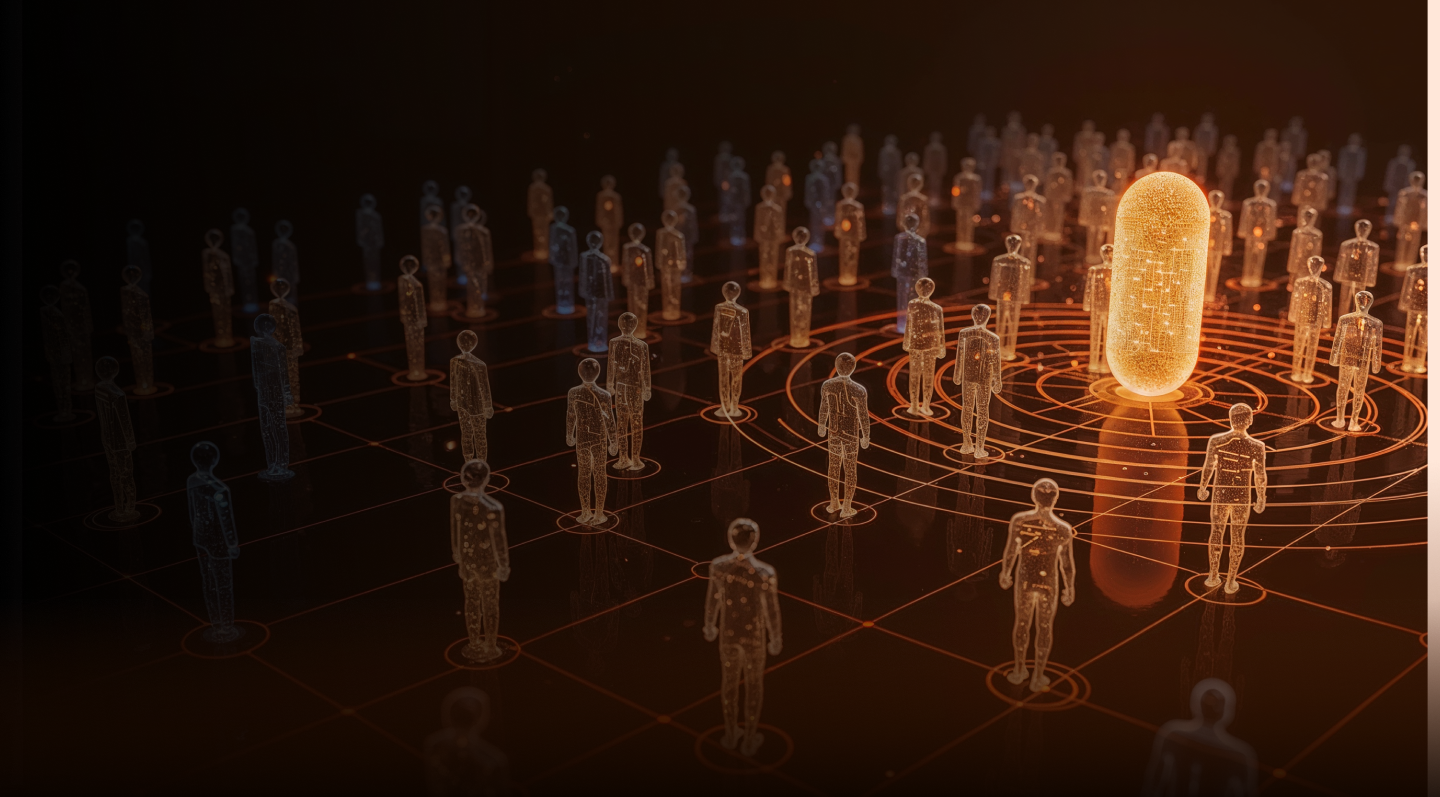
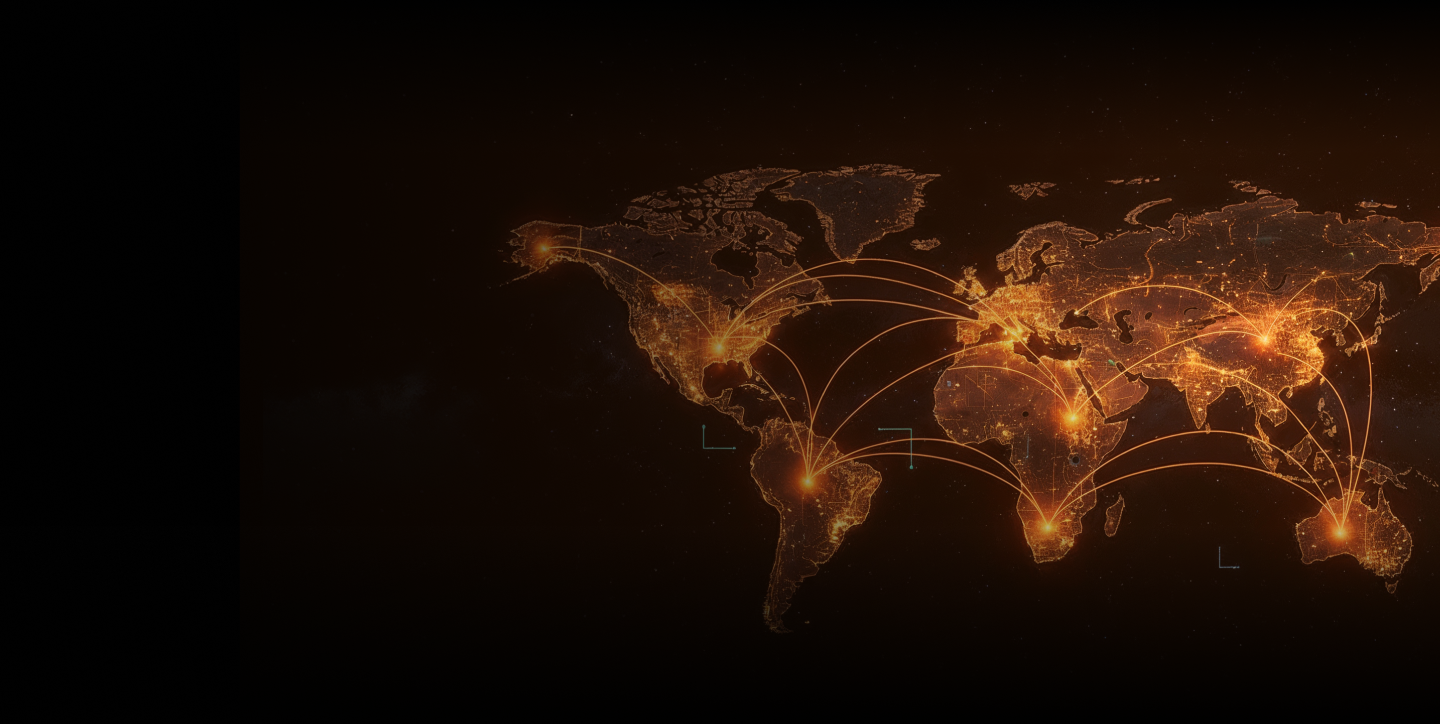
feat(network): start academy page

diff --git a/apps/network/src/routes/funds.tsx b/apps/network/src/routes/funds.tsx
@@ -34,7 +34,6 @@ function RouteComponent() {
         }
         subtitle={t('funds.subtitle')}
         imageUrl={isMobile ? headerSmallImage : headerImage}
-        className="mx-10"
         titleClassName={'max-w-[700px]'}
         subtitleClassName={'max-w-[85%] lg:max-w-[450px]'}
       />
@@ -45,41 +44,43 @@ function RouteComponent() {
         alt="Scenic mountain lake"
         titleClassName={'lg:max-w-[53%]'}
         subtitleClassName={'lg:max-w-[52%] max-xl:!text-lg text-gray-300'}
-        imageClassName="lg:w-[50%]"
+        imageClassName=""
         subtitleUnderImage={true}
         className="mt-12"
         orientation="left"
         BottomElement={
-          <div className="flex flex-col gap-1 xl:gap-2">
-            <div className="flex flex-row gap-2 items-center">
-              <img
-                className="rounded-[10px] p-2 bg-darkOrange-11 max-xl:size-9"
-                src={personIcon}
-                alt="Person icon"
-              />
-              <span className="title-base xl:title-medium">
-                {t('funds.cyphertankPitch1')}
-              </span>
-            </div>
-            <div className="flex flex-row gap-2 items-center">
-              <img
-                className="rounded-[10px] p-2 bg-darkOrange-11 max-xl:size-9"
-                src={dollarIcon}
-                alt="Dollar icon"
-              />
-              <span className="title-base xl:title-medium">
-                {t('funds.cyphertankPitch2')}
-              </span>
-            </div>
-            <div className="flex flex-row gap-2 items-center">
-              <img
-                className="rounded-[10px] p-2 bg-darkOrange-11 max-xl:size-9"
-                src={worldIcon}
-                alt="World icon"
-              />
-              <span className="title-base xl:title-medium">
-                {t('funds.cyphertankPitch3')}
-              </span>
+          <>
+            <div className="flex flex-col gap-1 xl:gap-2">
+              <div className="flex flex-row gap-2 items-center">
+                <img
+                  className="rounded-[10px] p-2 bg-darkOrange-11 max-xl:size-9"
+                  src={personIcon}
+                  alt="Person icon"
+                />
+                <span className="title-base xl:title-medium">
+                  {t('funds.cyphertankPitch1')}
+                </span>
+              </div>
+              <div className="flex flex-row gap-2 items-center">
+                <img
+                  className="rounded-[10px] p-2 bg-darkOrange-11 max-xl:size-9"
+                  src={dollarIcon}
+                  alt="Dollar icon"
+                />
+                <span className="title-base xl:title-medium">
+                  {t('funds.cyphertankPitch2')}
+                </span>
+              </div>
+              <div className="flex flex-row gap-2 items-center">
+                <img
+                  className="rounded-[10px] p-2 bg-darkOrange-11 max-xl:size-9"
+                  src={worldIcon}
+                  alt="World icon"
+                />
+                <span className="title-base xl:title-medium">
+                  {t('funds.cyphertankPitch3')}
+                </span>
+              </div>
             </div>
             <div className="mt-4 flex flex-row xl:flex-col max-lg:self-center gap-4">
               <NetworkButton variant={'secondary'}>Apply now</NetworkButton>
@@ -87,7 +88,7 @@ function RouteComponent() {
                 See next edition
               </NetworkButton>
             </div>
-          </div>
+          </>
         }
       />
       <MediaCard
@@ -101,7 +102,7 @@ function RouteComponent() {
         className="mt-12"
         orientation="right"
         BottomElement={
-          <div className="flex flex-col max-lg:items-center ">
+          <div className="flex flex-col max-lg:items-center">
             <NetworkButton variant={'secondary'}>
               Fundrise capital
             </NetworkButton>

diff --git a/apps/network/src/routes/academy.tsx b/apps/network/src/routes/academy.tsx
@@ -3,7 +3,10 @@ import { t } from 'i18next';
 import { Trans } from 'react-i18next';
 import headerImage from '#src/assets/academy/header.png';
 import headerSmallImage from '#src/assets/academy/header.png';
+import media1Image from '#src/assets/academy/media-1.png';
+import BlockTitle from '#src/components/block-title.tsx';
 import { Hero } from '#src/components/hero.tsx';
+import { NetworkButton } from '#src/components/network-button.tsx';
 import PageBlock from '#src/components/page-block.tsx';
 import { useSmaller } from '#src/hooks/use-smaller.ts';
 
@@ -24,10 +27,29 @@ function RouteComponent() {
         }
         subtitle={t('academy.subtitle')}
         imageUrl={isMobile ? headerSmallImage : headerImage}
-        className="mx-10"
-        titleClassName="max-w-[65%]"
+        titleClassName="max-w-[62%]"
         subtitleClassName={'max-w-[85%] lg:max-w-[40%]'}
       />
+      <BlockTitle text="Todo bla bla" />
+
+      <PageBlock>
+        <h2 className="display-medium text-center">
+          {t('academy.safestPlace')}
+        </h2>
+        <div className="mt-6 flex flex-row justify-between max-w-[300px] self-center mx-auto text-gray-200 z-10 relative">
+          <span>{t('academy.safest1')}</span>
+          <span>{t('academy.safest2')}</span>
+          <span>{t('academy.safest3')}</span>
+        </div>
+        <img
+          className="lg:-mt-12"
+          src={media1Image}
+          alt="Laptop showing the academy website"
+        />
+        <NetworkButton className="justify-self-center z-10 relative md:-mt-6 lg:-mt-12">
+          Start learning
+        </NetworkButton>
+      </PageBlock>
       <div className="shadow-top-bottom-box py-24 mt-24">
         <PageBlock>
           <p>1</p>

diff --git a/apps/network/src/components/media-card.tsx b/apps/network/src/components/media-card.tsx
@@ -38,10 +38,9 @@ export default function MediaCard({
       <fieldset
         aria-labelledby="media-card-title"
         className={[
-          'relative w-full pb-5 rounded-2xl shadow-lg transition-transform',
+          'relative w-full rounded-2xl shadow-lg transition-transform',
           'hover:-translate-y-0.5 hover:shadow-xl',
           'flex flex-col lg:flex-col',
-          'hover:-translate-y-0.5 hover:shadow-xl',
           'max-lg:bg-network-cards',
         ].join(' ')}
       >
@@ -61,6 +60,7 @@ export default function MediaCard({
           >
             {title}
           </h3>
+
           {subtitleUnderImage && isMobile ? null : (
             <BottomStuff
               bottomElement={BottomElement}
@@ -75,7 +75,7 @@ export default function MediaCard({
           src={imageUrl}
           alt={alt}
           className={[
-            'object-cover self-center max-lg:-mt-8 w-full',
+            'object-cover self-center max-lg:-mt-8 w-full h-full',
             'rounded-2xl',
             isLeft ? 'lg:self-end' : 'lg:self-start',
             imageClassName,
@@ -106,6 +106,7 @@ function BottomStuff({
   subtext?: string;
   isLeft: boolean;
 }) {
+  const isMobile = useSmaller('lg');
   return (
     <>
       <p
@@ -118,8 +119,12 @@ function BottomStuff({
         {subtext}
       </p>
       {bottomElement ? (
-        <div className="xl:mb-8 max-lg:mt-8">{bottomElement}</div>
+        <>
+          {isMobile ? <div className="max-lg:h-4" /> : null}
+          {bottomElement}
+        </>
       ) : null}
+      {isMobile ? <div className="max-lg:h-5" /> : null}
     </>
   );
 }

diff --git a/apps/network/src/routes/about.tsx b/apps/network/src/routes/about.tsx
@@ -180,7 +180,6 @@ function RouteComponent() {
         }
         subtitle={t('about.subtitle')}
         imageUrl={isMobile ? headerSmallImage : headerImage}
-        className="lg:mx-10"
         subtitleClassName={'max-w-[400px]'}
       />
       <MediaCard
@@ -188,8 +187,8 @@ function RouteComponent() {
         subtext={t('about.media1subtitle')}
         imageUrl={media1Image}
         alt="Scenic mountain lake"
-        titleClassName={'lg:max-w-[65%]'}
-        subtitleClassName={'lg:max-w-[40%]'}
+        titleClassName={'lg:max-w-[700px]'}
+        subtitleClassName={'lg:max-w-[40%] max-xl:!text-lg'}
         imageClassName="lg:max-w-[50%]"
         subtitleUnderImage={true}
         className="mt-12"
@@ -198,10 +197,10 @@ function RouteComponent() {
         <h2 className="display-medium mb-8 max-lg:text-center">
           {t('about.ourValues.title')}
         </h2>
-        <div className="flex flex-row flex-wrap gap-4 lg:gap-10 justify-center-safe">
+        <div className="flex flex-row flex-wrap gap-2 lg:gap-10 justify-center-safe">
           {valuesCards.map((card) => (
             <div
-              className="flex flex-col gap-2 lg:gap-4 w-52 lg:w-[380px] border-[1px] border-orange-600 rounded-3xl p-8 text-left"
+              className="flex flex-col gap-2 lg:gap-4 w-44 md:w-52 lg:w-[380px] border-[1px] border-orange-600 rounded-3xl p-4 md:p-8 text-left"
               key={card.title}
             >
               <img className="w-12" src={card.imageUrl} alt="" />

diff --git a/apps/network/src/components/block-title.tsx b/apps/network/src/components/block-title.tsx
@@ -1,0 +1,28 @@
+import { cn } from '@blms/ui';
+import curveLeft from '#src/assets/curve/curve-left.svg';
+import curveMiddle from '#src/assets/curve/curve-middle.png';
+import curveRight from '#src/assets/curve/curve-right.svg';
+
+type BlockTitleProps = {
+  text: string;
+  className?: string;
+};
+
+export default function BlockTitle({ text, className }: BlockTitleProps) {
+  return (
+    <div className="flex flex-col w-full items-center ">
+      <div className={cn('flex w-full', className)}>
+        <img className="h-[400px]" src={curveLeft} alt="Left curve" />
+
+        <img
+          className="h-[400px] w-1 flex-grow"
+          src={curveMiddle}
+          alt="Middle curve"
+        />
+
+        <img className="h-[400px]" src={curveRight} alt="Right curve" />
+      </div>
+      <h2 className="-mt-20 mb-12 title-extra-large uppercase">{text}</h2>
+    </div>
+  );
+}

diff --git a/packages/ui/src/styles/global.css b/packages/ui/src/styles/global.css
@@ -769,15 +769,13 @@
 }
 
 @utility bg-network-cards {
-  background:
-    linear-gradient(0deg, rgba(0, 0, 0, 0.2) 0%, rgba(0, 0, 0, 0.2) 100%),
-    linear-gradient(
-      0deg,
-      var(--Brown-900, #2b1f18) 5.36%,
-      rgba(43, 31, 24, 0) 16.85%,
-      rgba(43, 31, 24, 0) 88.13%,
-      var(--Brown-900, #2b1f18) 99.98%
-    );
+  background: linear-gradient(
+    0deg,
+    var(--Brown-900, #2b1f18) 5.36%,
+    #000 16.85%,
+    #000 92.17%,
+    var(--Brown-900, #2b1f18) 99.98%
+  );
 }
 
 @utility bg-gradient-network-lr {

diff --git a/apps/network/src/routes/news/index.tsx b/apps/network/src/routes/news/index.tsx
@@ -24,9 +24,8 @@ function BlogsNews() {
         }
         subtitle={t('news.subtitle')}
         imageUrl={isMobile ? headerSmallImage : headerImage}
-        className=""
-        titleClassName={'max-w-[60%]'}
-        subtitleClassName={'max-w-[85%] lg:max-w-[380px]'}
+        titleClassName={'lg:max-w-[60%]'}
+        subtitleClassName={'max-w-[90%] lg:max-w-[380px]'}
       />
       <BlogList />
     </>

diff --git a/apps/network/src/components/hero.tsx b/apps/network/src/components/hero.tsx
@@ -24,7 +24,10 @@ export const Hero = ({
   return (
     <PageBlock>
       <div
-        className={cn('relative flex flex-col tracking-[-0.4px]', className)}
+        className={cn(
+          'relative flex flex-col tracking-[-0.4px] lg:mx-10',
+          className,
+        )}
       >
         <div className="lg:absolute left-2 flex flex-col gap-8 xl:gap-20 h-full">
           <h1

diff --git a/apps/network/src/routes/hubs.tsx b/apps/network/src/routes/hubs.tsx
@@ -23,7 +23,6 @@ function RouteComponent() {
         }
         subtitle={t('hubs.subtitle')}
         imageUrl={isMobile ? headerSmallImage : headerImage}
-        className="mx-10"
         titleClassName="max-w-[65%]"
         subtitleClassName={'max-w-[85%] lg:max-w-[50%]'}
       />
